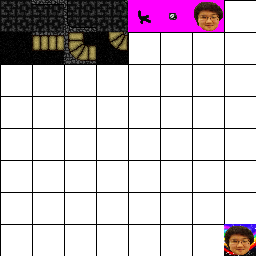
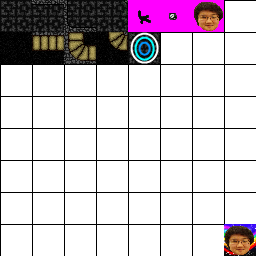
Release for Ludum Dare

Changed region(s): [[0.5, 0.125, 0.625, 0.25]]

diff --git a/src/com/gregswebserver/ld28/game/level/World.java b/src/com/gregswebserver/ld28/game/level/World.java
@@ -1,6 +1,7 @@
 package com.gregswebserver.ld28.game.level;
 
 import com.gregswebserver.ld28.game.UsesGame;
+import com.gregswebserver.ld28.game.level.tile.PathLandmarkTile;
 import com.gregswebserver.ld28.game.level.tile.Tile;
 import com.gregswebserver.ld28.graphics.screen.Screen;
 import com.gregswebserver.ld28.graphics.screen.ScreenObject;
@@ -47,8 +48,12 @@ public class World extends UsesGame {
     private void worldRender(Screen screen) {
         for (Tile tile : level.tiles.values()) {
             Vector2d location = tile.getPosition();
-            if (screen.getBoundary().conflicts(new Boundary(getScreenLocation(screen, location).toVector2d(), new Vector2d(32))))
+            if (screen.getBoundary().conflicts(new Boundary(getScreenLocation(screen, location).toVector2d(), new Vector2d(32)))) {
                 screen.addObject("tile" + location.toString(), new ScreenObject(getScreenLocation(screen, location), tile.getSprite(), 0));
+                if (tile instanceof PathLandmarkTile) {
+                    screen.addObject("tile" + location.toString() + "o", new ScreenObject(getScreenLocation(screen, location), ((PathLandmarkTile) tile).getFeature(), 1));
+                }
+            }
         }
         for (Integer i : players.keySet()) {
             Player player = players.get(i);

diff --git a/src/com/gregswebserver/ld28/graphics/sprite/Sprite.java b/src/com/gregswebserver/ld28/graphics/sprite/Sprite.java
@@ -21,8 +21,8 @@ public class Sprite extends Graphic {
     public static Sprite wall_corner_in = new Sprite(new Vector2i(3, 1), 32, SpriteSheet.terrain);
 
     //landmark sprites
-    public static Sprite landmark_wall = new Sprite(new Vector2i(0, 0), 32, SpriteSheet.landmarks);
-    public static Sprite landmark_path = new Sprite(new Vector2i(0, 0), 32, SpriteSheet.landmarks);
+    public static Sprite landmark_crack = new Sprite(new Vector2i(4, 0), 32, SpriteSheet.terrain);
+    public static Sprite landmark_skull = new Sprite(new Vector2i(5, 0), 32, SpriteSheet.terrain);
 
     //player sprites
     public static int playerSize = 32;
@@ -44,6 +44,7 @@ public class Sprite extends Graphic {
     public static Sprite player_move_diagonal_1 = new Sprite(new Vector2i(1, 1), playerSize, SpriteSheet.player);
     public static Sprite player_move_diagonal_2 = new Sprite(new Vector2i(2, 1), playerSize, SpriteSheet.player);
     public static Sprite player_move_diagonal_3 = new Sprite(new Vector2i(3, 1), playerSize, SpriteSheet.player);
+    public static Sprite teleporter = new Sprite(new Vector2i(4, 1), 32, SpriteSheet.terrain);
 
     public Sprite() {
         super(new Vector2i());

diff --git a/src/com/gregswebserver/ld28/game/level/tile/PathLandmarkTile.java b/src/com/gregswebserver/ld28/game/level/tile/PathLandmarkTile.java
@@ -1,9 +1,30 @@
 package com.gregswebserver.ld28.game.level.tile;
 
+import com.gregswebserver.ld28.graphics.sprite.Sprite;
 import com.gregswebserver.ld28.util.vectors.Vector2d;
 
+import java.util.Random;
+
 public class PathLandmarkTile extends PathTile {
+
+    private Sprite feature;
+
     public PathLandmarkTile(Vector2d position) {
         super(position);
+        feature = getRandomSprite();
+    }
+
+    public Sprite getFeature(){
+        return feature;
+    }
+
+    public static Sprite getRandomSprite() {
+        Random rand = new Random();
+        switch (rand.nextInt(2)) {
+            case 0:
+                return Sprite.landmark_crack;
+            default:
+                return Sprite.landmark_skull;
+        }
     }
 }

diff --git a/src/com/gregswebserver/ld28/game/level/Level.java b/src/com/gregswebserver/ld28/game/level/Level.java
@@ -45,7 +45,7 @@ public class Level extends UsesGame {
                 else if (color == wallLandmarkColor)
                     tiles.put(location, new WallLandmarkTile(location));
                 else if (color == endTileColor){
-                    tiles.put(location, new PathLandmarkTile(location));
+                    tiles.put(location, new TeleporterTile(location));
                     endLocation = location;
                 }
                 else {

diff --git a/src/com/gregswebserver/ld28/game/level/tile/TeleporterTile.java b/src/com/gregswebserver/ld28/game/level/tile/TeleporterTile.java
@@ -1,0 +1,15 @@
+package com.gregswebserver.ld28.game.level.tile;
+
+import com.gregswebserver.ld28.graphics.sprite.Sprite;
+import com.gregswebserver.ld28.util.vectors.Vector2d;
+
+public class TeleporterTile extends PathTile {
+
+    public TeleporterTile(Vector2d position) {
+        super(position);
+    }
+
+    public Sprite getSprite(){
+        return Sprite.teleporter;
+    }
+}

diff --git a/src/com/gregswebserver/ld28/Main.java b/src/com/gregswebserver/ld28/Main.java
@@ -1,6 +1,5 @@
 package com.gregswebserver.ld28;
 
-import com.gregswebserver.ld28.audio.Audio;
 import com.gregswebserver.ld28.game.Game;
 import com.gregswebserver.ld28.game.UsesGame;
 import com.gregswebserver.ld28.util.Clock;
